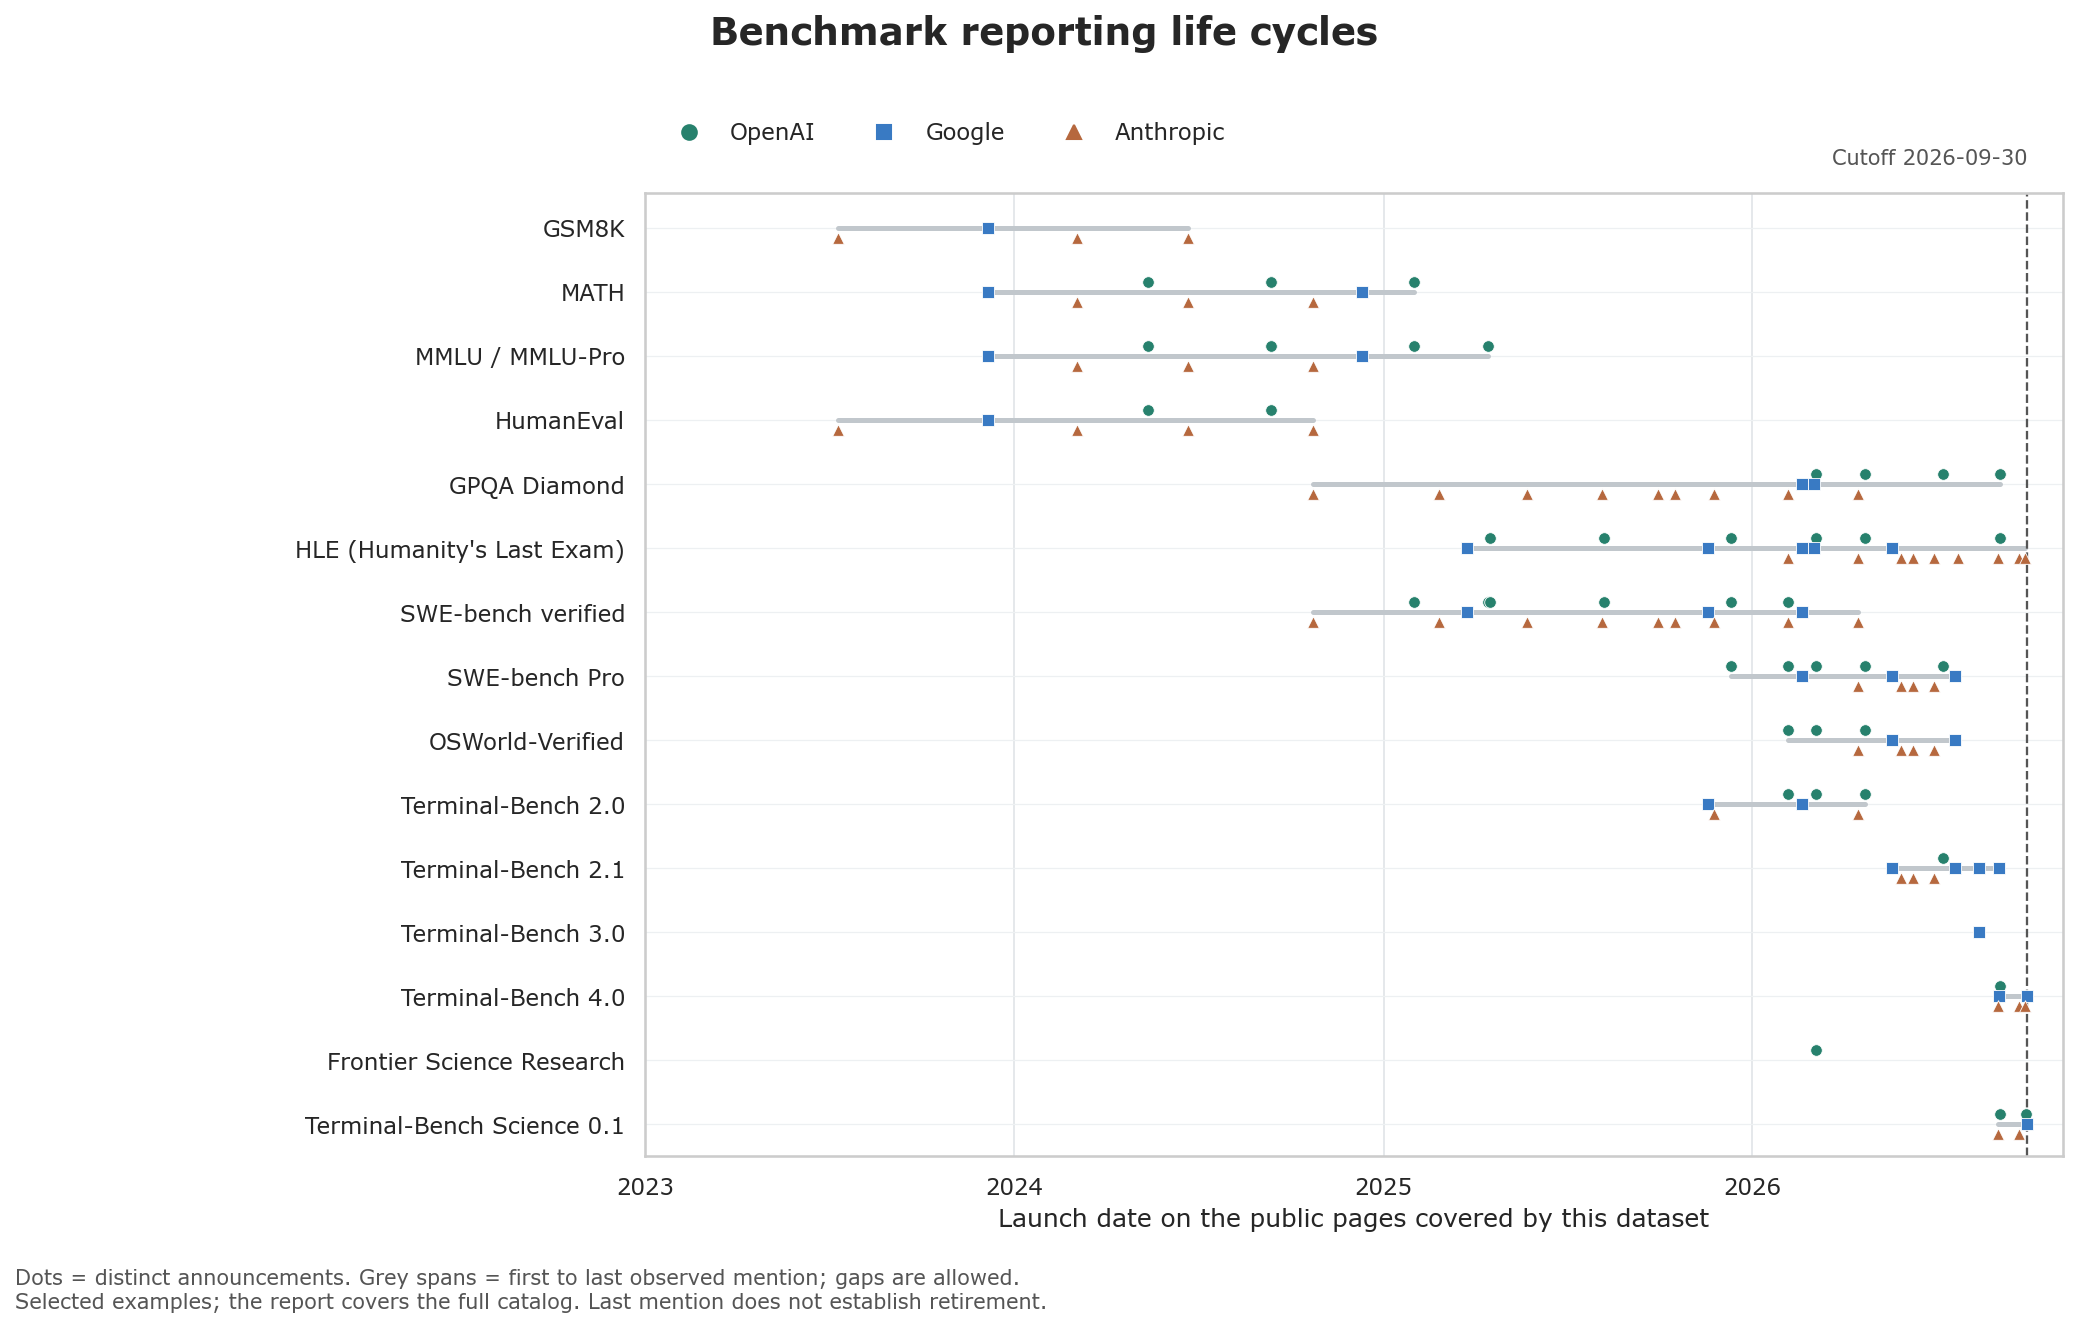
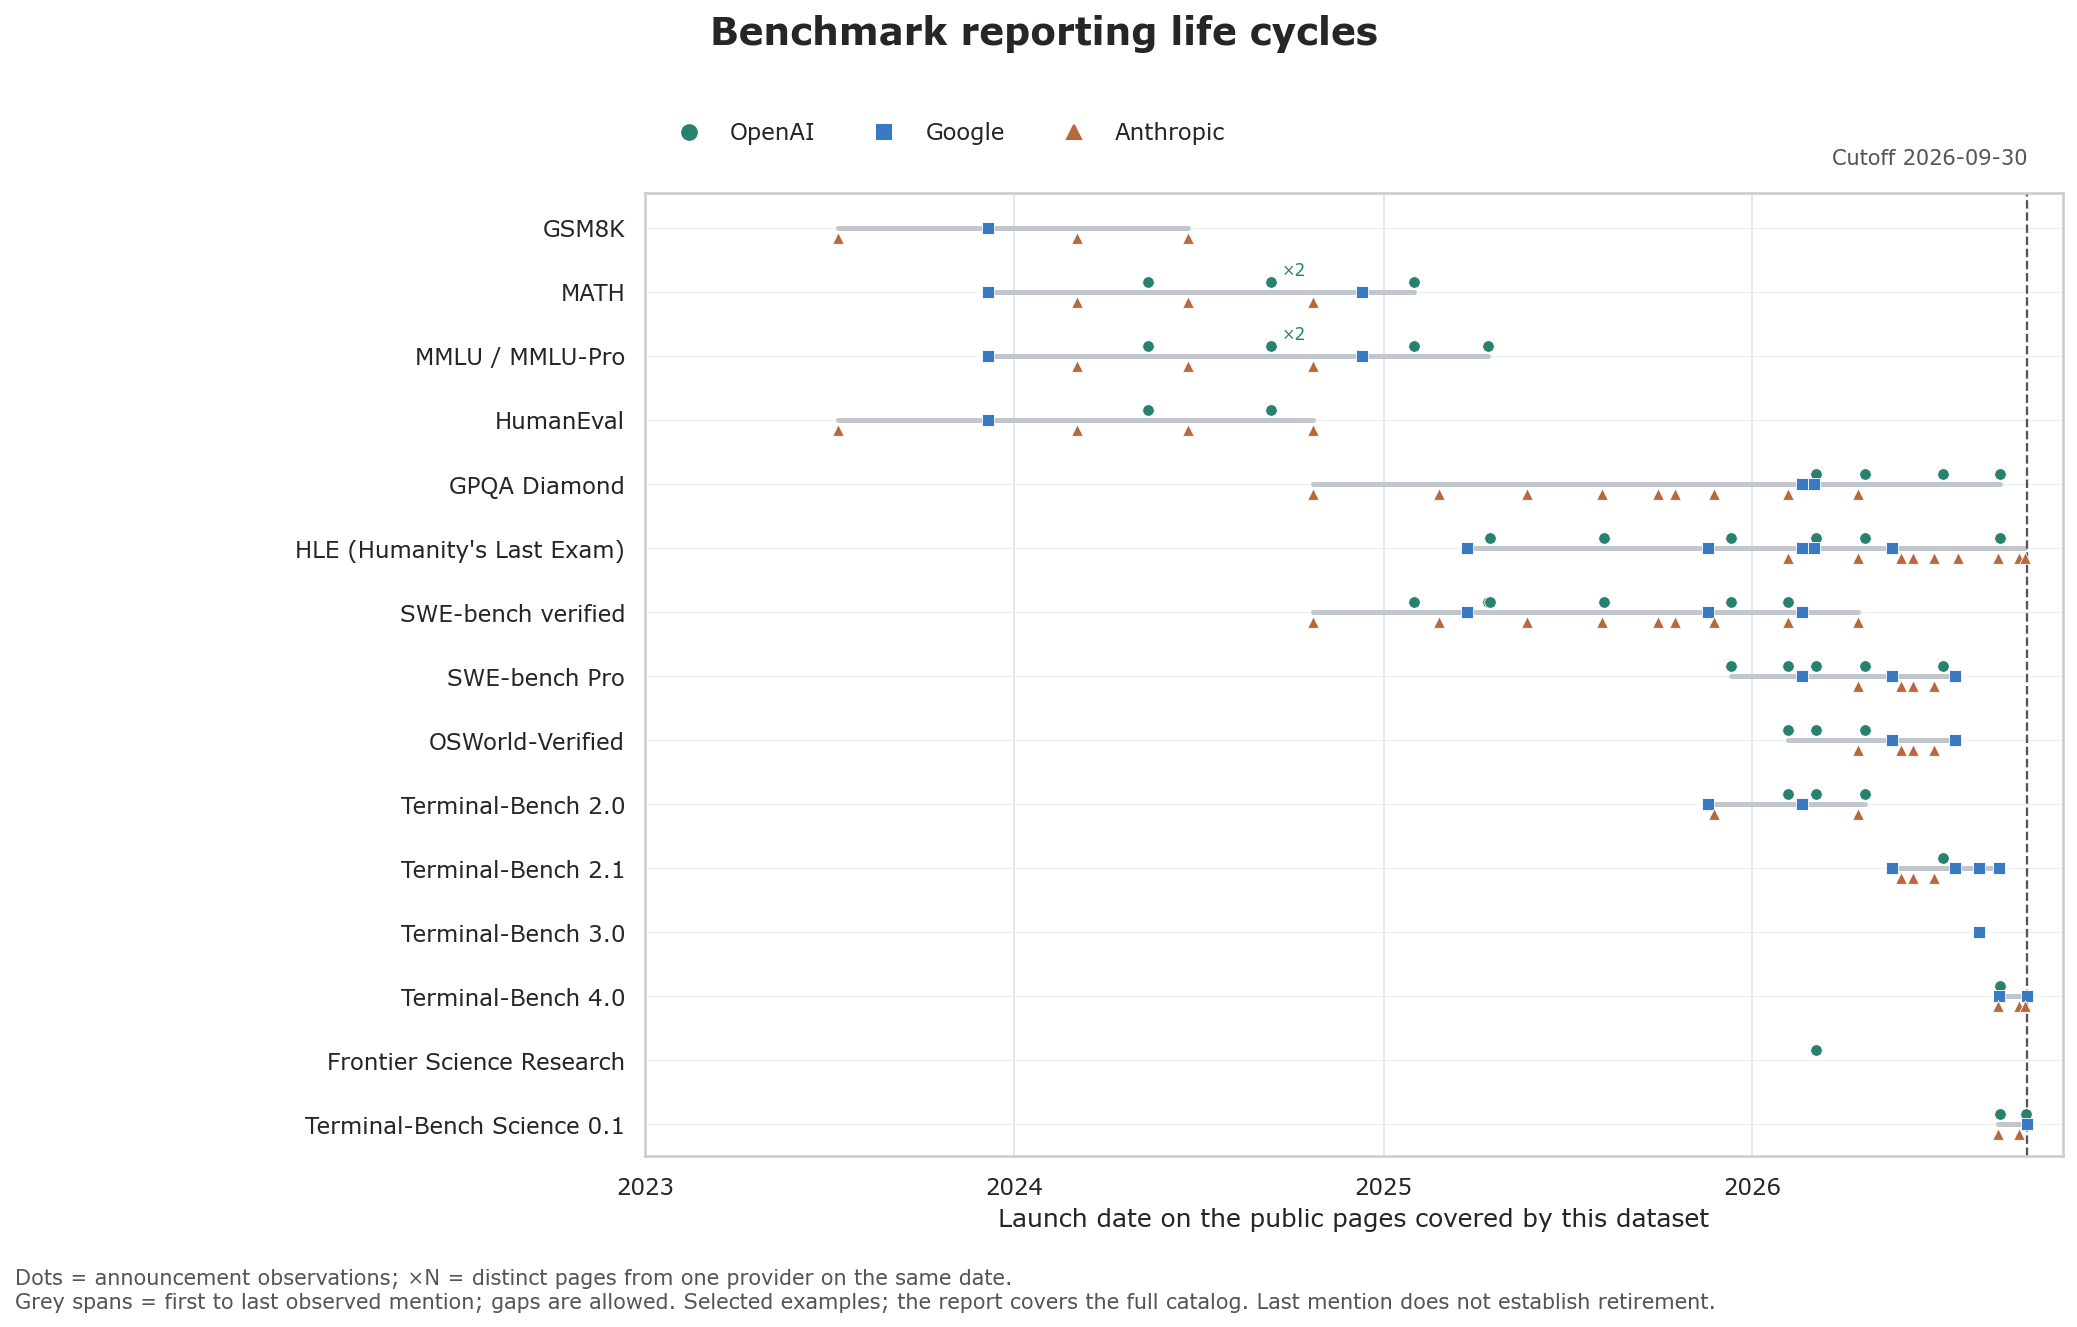
Address lifecycle review on source integrity and chart fidelity

Changed region(s): [[0.0, 0.9578, 0.8012, 0.9887]]

diff --git a/tests/test_benchmark_lifecycle.py b/tests/test_benchmark_lifecycle.py
@@ -6,9 +6,12 @@ import subprocess
 import sys
 import tempfile
 import unittest
+from unittest.mock import patch
+from urllib.parse import unquote
 
 import pandas as pd
 
+from analysis.benchmark_lifecycle.analyze import plot_timeline
 from analysis.benchmark_lifecycle.lifecycle import build_lifecycle_tables
 from scripts.taxonomy_utils import (
     AliasEntry,
@@ -474,6 +477,91 @@ class BenchmarkLifecycleTests(unittest.TestCase):
         self.assertEqual(len(launches), 1)
         self.assertEqual(len(mentions), 1)
 
+    def test_meaningful_unicode_source_urls_remain_distinct(self):
+        _, _, launches, _, _ = self.build(
+            models(
+                ("A", "Width", "2026-01-01", "https://a.example/Ａ", "Alpha"),
+                ("A", "ASCII", "2026-01-01", "https://a.example/A", "Alpha"),
+                ("A", "Circled", "2026-01-01", "https://a.example/page?edition=①", "Alpha"),
+                ("A", "Digit", "2026-01-01", "https://a.example/page?edition=1", "Alpha"),
+                ("A", "Encoded", "2026-01-01", "https://a.example/page?edition=%E2%91%A0", "Alpha"),
+            ),
+            "Alpha",
+        )
+
+        self.assertEqual(len(launches), 4)
+        counts = launches.set_index("source_url")["model_row_count"].to_dict()
+        self.assertEqual(counts["https://a.example/Ａ"], 1)
+        self.assertEqual(counts["https://a.example/A"], 1)
+        self.assertEqual(counts["https://a.example/page?edition=1"], 1)
+        self.assertEqual(counts["https://a.example/page?edition=%E2%91%A0"], 2)
+
+    def test_canonical_display_labels_preserve_catalog_unicode(self):
+        name = "τ³-Banking Leaderboard"
+        lifecycles, providers, _, mentions, _ = self.build(
+            models(("A", "A1", "2026-01-01", "https://a.example/one", name)),
+            name,
+        )
+
+        for table in [lifecycles, providers, mentions]:
+            self.assertEqual(table["benchmark_name"].tolist(), [name])
+
+    def test_undated_inventory_rows_cannot_disappear_during_scoping(self):
+        for missing_date in ["", None, pd.NaT]:
+            with self.subTest(date=missing_date), self.assertRaisesRegex(ValueError, "valid release date"):
+                self.build(
+                    models(
+                        ("A", "Known", "2026-01-01", "https://a.example/known", "Alpha"),
+                        ("A", "Undated", missing_date, "https://a.example/undated", "Unknown"),
+                    ),
+                    "Alpha",
+                )
+
+    def test_scoped_launches_require_a_provider_and_absolute_source_url(self):
+        for provider in ["", None]:
+            with self.subTest(provider=provider), self.assertRaisesRegex(ValueError, "nonempty Provider"):
+                self.build(
+                    models((provider, "A1", "2026-01-01", "https://a.example/one", "Alpha")),
+                    "Alpha",
+                )
+        for url in ["", None, "#chart", "/relative", "ftp://a.example/page"]:
+            with self.subTest(url=url), self.assertRaisesRegex(ValueError, r"HTTP\(S\) source URL"):
+                self.build(models(("A", "A1", "2026-01-01", url, "Alpha")), "Alpha")
+
+    def test_excluded_future_identifiers_do_not_create_an_empty_provider(self):
+        _, providers, launches, mentions, _ = self.build(
+            models(
+                ("A", "Known", "2026-01-01", "https://a.example/known", "Alpha"),
+                ("", "Future", "2026-02-01", "", "Unknown"),
+            ),
+            "Alpha", as_of="2026-01-01",
+        )
+
+        self.assertEqual(providers["provider"].tolist(), ["A"])
+        self.assertEqual(len(launches), 1)
+        self.assertEqual(len(mentions), 1)
+
+    def test_chart_counts_same_provider_date_pages_without_shifting_dates(self):
+        lifecycles, _, _, mentions, cutoff = self.build(
+            models(
+                ("OpenAI", "O1", "2026-01-01", "https://o.example/one", "GSM8K"),
+                ("OpenAI", "O2", "2026-01-01", "https://o.example/two", "GSM8K"),
+                ("Google", "G1", "2026-01-01", "https://g.example/one", "GSM8K"),
+            ),
+            "GSM8K",
+        )
+
+        with patch("analysis.benchmark_lifecycle.analyze.save_figure") as save:
+            selected = plot_timeline(lifecycles, mentions, cutoff, Path("unused.png"))
+        self.assertEqual(selected, [benchmark_id("GSM8K")])
+        figure = save.call_args.args[0]
+        axes = figure.axes[0]
+        counts = [text for text in axes.texts if text.get_text().startswith("×")]
+        self.assertEqual([text.get_text() for text in counts], ["×2"])
+        self.assertEqual(counts[0].xy[0], pd.Timestamp("2026-01-01"))
+        self.assertEqual(sum(len(collection.get_offsets()) for collection in axes.collections), 2)
+        self.assertIn("×N = distinct pages", " ".join(text.get_text() for text in figure.texts))
+
     def test_cli_before_the_first_release_exports_complete_unobserved_catalog(self):
         root = Path(__file__).resolve().parents[1]
         source_catalog = pd.read_csv(root / "data/benchmarks.csv", keep_default_na=False)
@@ -537,6 +625,11 @@ class BenchmarkLifecycleTests(unittest.TestCase):
             report = (output / "report.md").read_text(encoding="utf-8")
             self.assertIn("2020-01-01", report)
             self.assertIn("not retirement", report)
+            methodology_link = report.split("[methodology](", 1)[1].split(")", 1)[0]
+            self.assertEqual(
+                (output / unquote(methodology_link)).resolve(),
+                root / "analysis/benchmark_lifecycle/README.md",
+            )
 
 
 if __name__ == "__main__":

diff --git a/analysis/benchmark_lifecycle/analyze.py b/analysis/benchmark_lifecycle/analyze.py
@@ -3,8 +3,10 @@
 from __future__ import annotations
 
 import json
+import os
 from datetime import datetime, timedelta
 from pathlib import Path
+from urllib.parse import quote
 
 import matplotlib.dates as mdates
 import matplotlib.pyplot as plt
@@ -70,12 +72,20 @@ def plot_timeline(
         subset = launch_mentions[launch_mentions["benchmark_id"].isin(selected)]
         for provider, (color, marker, offset) in PROVIDER_STYLE.items():
             points = subset[subset["provider"] == provider]
+            points = points.groupby(["benchmark_id", "release_date"], sort=True).size().reset_index(name="announcement_count")
             ax.scatter(
                 pd.to_datetime(points["release_date"]),
                 points["benchmark_id"].map(positions) + offset,
                 color=color, marker=marker, s=31, linewidths=0.4,
                 edgecolors="white", zorder=3,
             )
+            for point in points.itertuples(index=False):
+                if point.announcement_count > 1:
+                    ax.annotate(
+                        f"×{point.announcement_count}",
+                        (pd.Timestamp(point.release_date), positions[point.benchmark_id] + offset),
+                        xytext=(5, 3), textcoords="offset points", fontsize=8, color=color,
+                    )
         ax.set_yticks(range(len(selected)), [indexed.loc[key, "benchmark_name"] for key in selected])
         ax.set_ylim(len(selected) - 0.5, -0.55)
         first_year = pd.to_datetime(indexed.loc[selected, "first_seen"]).min().year
@@ -103,7 +113,8 @@ def plot_timeline(
     ax.legend(handles=handles, ncol=3, frameon=False, loc="upper left", bbox_to_anchor=(0, 1.095))
     fig.suptitle("Benchmark reporting life cycles", fontsize=18, fontweight="bold", y=0.995)
     fig.text(0.01, 0.015,
-             "Dots = distinct announcements. Grey spans = first to last observed mention; gaps are allowed.\n"
+             "Dots = announcement observations; ×N = distinct pages from one provider on the same date.\n"
+             "Grey spans = first to last observed mention; gaps are allowed. "
              "Selected examples; the report covers the full catalog. Last mention does not establish retirement.",
              fontsize=10, color="#555555")
     fig.subplots_adjust(left=0.31, right=0.985, top=0.86, bottom=0.13)
@@ -149,6 +160,7 @@ def markdown_table(frame: pd.DataFrame) -> str:
 
 
 def write_report(lifecycles: pd.DataFrame, summary: dict[str, object], output: Path) -> None:
+    methodology_link = quote(Path(os.path.relpath(OUTPUT_DIR / "README.md", output.parent.resolve())).as_posix())
     diffusion = lifecycles[lifecycles["provider_count"] > 1].sort_values(
         ["second_provider_lag_days", "first_seen", "benchmark_name"], kind="stable",
     ).head(10)
@@ -203,7 +215,7 @@ Recent counts cover the last {summary['recent_window_days']} calendar days inclu
 Version and track identities follow the catalog. This analysis infers no family,
 successor or replacement relationships. Existing combined historical identities
 and provisional private-suite mappings affect the results; identity review status
-is retained in the full table. See [methodology](README.md).
+is retained in the full table. See [methodology]({methodology_link}).
 
 ## Fast observed cross-provider diffusion
 

diff --git a/analysis/benchmark_lifecycle/lifecycle.py b/analysis/benchmark_lifecycle/lifecycle.py
@@ -65,7 +65,9 @@ def normalize_source_url(value: object) -> str:
     query values remain significant; fragments, trailing slashes, and common
     tracking parameters do not distinguish a launch.
     """
-    url = exact_key(value)
+    # Taxonomy matching uses Unicode compatibility normalization, which is not
+    # valid for URLs: e.g. /Ａ and /A can identify different source pages.
+    url = "" if value is None or pd.isna(value) else str(value).strip()
     parts = urlsplit(url)
     query = [
         (key, val) for key, val in parse_qsl(parts.query, keep_blank_values=True)
@@ -162,7 +164,10 @@ def build_lifecycle_tables(
         for column in ["Provider", "Model name", "link", "release date", "benchmarks"]:
             if column not in inventory:
                 inventory[column] = pd.Series(dtype="object")
-    providers = sorted({exact_key(value) for value in inventory["Provider"].fillna("")})
+    inventory_dates = pd.to_datetime(inventory["release date"], errors="raise")
+    if inventory_dates.isna().any():
+        raise ValueError("Every model row must have a valid release date before cutoff filtering")
+    providers = sorted({exact_key(value) for value in inventory["Provider"].fillna("")} - {""})
     scoped, cutoff = scope_models_as_of(inventory, as_of)
     if pd.isna(cutoff):
         raise ValueError("Cannot determine a cutoff from models; provide an explicit as_of date")
@@ -177,7 +182,11 @@ def build_lifecycle_tables(
     )
 
     catalog = benchmarks.reindex(columns=["benchmark_id", "benchmark_name", "review_status"])
-    catalog = catalog.fillna("").map(exact_key)
+    catalog = catalog.fillna("")
+    for column in ["benchmark_id", "review_status"]:
+        catalog[column] = catalog[column].map(exact_key)
+    # Keep canonical display labels faithful to the catalog, including τ³.
+    catalog["benchmark_name"] = catalog["benchmark_name"].map(lambda value: str(value).strip())
     if catalog["benchmark_id"].duplicated().any():
         raise ValueError("The benchmark catalog must have unique benchmark_id values")
     if (catalog["benchmark_id"] == "").any() or (catalog["benchmark_name"] == "").any():
@@ -191,10 +200,17 @@ def build_lifecycle_tables(
     events_by_key: dict[tuple[str, str, str], dict] = {}
     row_keys: dict[int, tuple[str, str, str]] = {}
     for row_id, model in scoped.iterrows():
+        provider = exact_key(model["Provider"])
+        source_url = normalize_source_url(model.get("link", ""))
+        if not provider:
+            raise ValueError("Every scoped model row requires a nonempty Provider")
+        source_parts = urlsplit(source_url)
+        if source_parts.scheme not in {"http", "https"} or not source_parts.hostname:
+            raise ValueError("Every scoped model row requires an absolute HTTP(S) source URL")
         key = (
-            exact_key(model["Provider"]),
+            provider,
             model["release_date"].strftime("%Y-%m-%d"),
-            normalize_source_url(model.get("link", "")),
+            source_url,
         )
         row_keys[row_id] = key
         event = events_by_key.setdefault(key, {

diff --git a/analysis/benchmark_lifecycle/README.md b/analysis/benchmark_lifecycle/README.md
@@ -16,6 +16,9 @@ the recent-count window (default 180); `--output-dir` and `--asset-dir` allow
 isolated runs. Every included raw mention must resolve to a canonical identity
 or explicit alias. Future rows are excluded before resolution. The standard
 pipeline regenerates this analysis along with the other outputs.
+Every inventory row requires a valid release date before cutoff filtering.
+Included rows also require a provider and an absolute HTTP(S) source URL, so
+missing identifiers cannot silently remove observations or merge unrelated pages.
 
 ## Outputs
 
@@ -41,6 +44,8 @@ event. Different URLs on the same date remain different events. URL fragments,
 trailing slashes and `utm_*`, `gclid` and `fbclid` tracking parameters are ignored;
 other query parameters remain meaningful. Redirect-equivalent URLs are not
 automatically inferred to be one source.
+Unicode path and query values retain their meaning; benchmark-name matching
+normalization is not applied to URLs or canonical display labels.
 
 Canonical aliases are deduplicated within each model row, then within each launch.
 `launch_count` measures announcements. `model_row_count` separately counts the
@@ -109,7 +114,9 @@ review status does not imply that every taxonomy facet has been audited.
 
 The chart's 15 editorial examples are listed in `TIMELINE_IDS` in `analyze.py`.
 Only observed examples appear at a given cutoff. Provider dots are actual launch
-observations; grey lines connect first and last mention and can contain gaps.
+observations; a `×N` label counts distinct pages from the same provider on the
+same date that would otherwise overlap. Grey lines connect first and last
+mention and can contain gaps.
 The line stops at the last observation without asserting the benchmark's death.
 The generated report and CSVs cover the full catalog rather than just the chart.
 

diff --git a/analysis/benchmark_lifecycle/report.md b/analysis/benchmark_lifecycle/report.md
@@ -70,7 +70,7 @@ do not describe benchmark maturity, quality, inactivity or retirement.
 | Benchmark | First observed | Last observed | Span (days) | Launches | Providers | Reporting pattern | Identity review |
 | --- | --- | --- | --- | --- | --- | --- | --- |
 | 30-day simulated run-a-business eval | 2026-09-01 | 2026-09-01 | 0 | 1 | 1 | single_launch | needs_review |
-| τ3-Banking Leaderboard | 2026-09-15 | 2026-09-15 | 0 | 1 | 1 | single_launch | needs_review |
+| τ³-Banking Leaderboard | 2026-09-15 | 2026-09-15 | 0 | 1 | 1 | single_launch | needs_review |
 | 93-task coding benchmark | 2026-04-16 | 2026-04-16 | 0 | 1 | 1 | single_launch | accepted |
 | AA-Briefcase v1.1 | 2026-09-28 | 2026-09-28 | 0 | 1 | 1 | single_launch | needs_review |
 | AA-LCR | 2026-04-23 | 2026-04-23 | 0 | 1 | 1 | single_launch | accepted |
